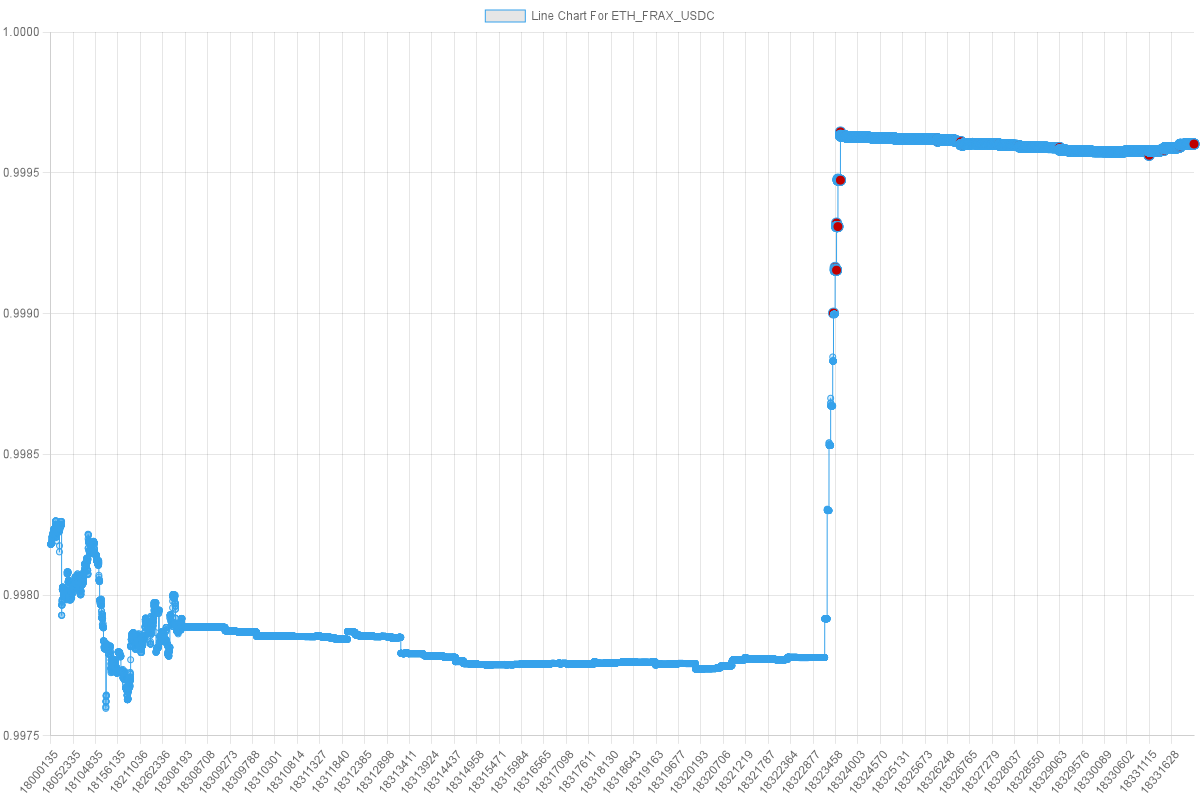
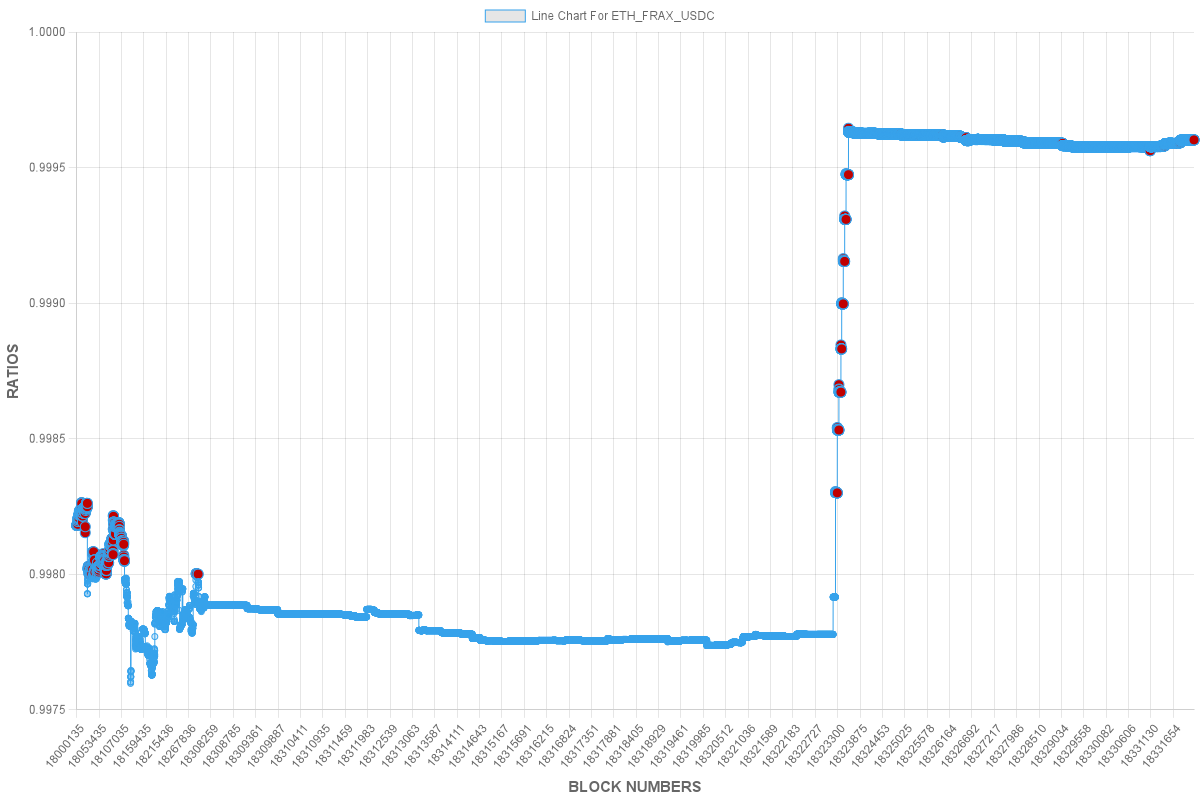
graph update

diff --git a/html/report.html b/html/report.html
@@ -41,32 +41,32 @@
     <div class="row">
     
         <div class="panel panel-primary">
-            <div id = "buypair" class="panel-heading">Summary for ETH_LUSD_USDC</div>
+            <div id = "buypair" class="panel-heading">Summary for ETH_FRAX_USDC</div>
             <div class="panel-body">
                     
                     <div class="col-md-12">&nbsp;</div> 
 
-                    <div class="col-md-6">Number of Block scanned : </div><div class="col-md-2">24821</div>
-                    <div class="col-md-6">Average Ratio across blocks : </div><div class="col-md-2">0.9959156020720595</div>
+                    <div class="col-md-6">Number of Block scanned : </div><div class="col-md-2">26160</div>
+                    <div class="col-md-6">Average Ratio across blocks : </div><div class="col-md-2">0.9983833655627407</div>
                     <div class="col-md-6">Target Ratio : </div><div class="col-md-2">0.998</div>
-                    <div class="col-md-6">Number of times target ratio was achieved : </div><div class="col-md-2">1379</div>
-                    <img src=./ETH_LUSD_USDC.png alt="Italian Trulli" style="width:1000px;height:800px;"></img> 
+                    <div class="col-md-6">Number of times target ratio was achieved : </div><div class="col-md-2">9429</div>
+                    <img src=./ETH_FRAX_USDC.png alt="Italian Trulli" style="width:1000px;height:800px;"></img> 
 
                     <div class="col-md-12">&nbsp;</div>
                    </div>
         </div>
         
         <div class="panel panel-primary">
-            <div class="panel-heading">Test Run Summary for ETH_USDC_LUSD</div>
+            <div class="panel-heading">Test Run Summary for ETH_USDC_FRAX</div>
             <div class="panel-body">
                     
                     <div class="col-md-12">&nbsp;</div> 
 
-                    <div class="col-md-6">Number of Block scanned : </div><div class="col-md-2">24821</div>
-                    <div class="col-md-6">Average Ratio across blocks : </div><div class="col-md-2">1.0049420031841054</div>
-                    <div class="col-md-6">Target Ratio : </div><div class="col-md-2">1.0029</div>
-                    <div class="col-md-6">Number of times target ratio was achieved : </div><div class="col-md-2">9968</div>
-                    <img src=./ETH_USDC_LUSD.png alt="Italian Trulli" style="width:1000px;height:800px;"></img> 
+                    <div class="col-md-6">Number of Block scanned : </div><div class="col-md-2">26319</div>
+                    <div class="col-md-6">Average Ratio across blocks : </div><div class="col-md-2">1.0014214046428849</div>
+                    <div class="col-md-6">Target Ratio : </div><div class="col-md-2">1.00204</div>
+                    <div class="col-md-6">Number of times target ratio was achieved : </div><div class="col-md-2">6548</div>
+                    <img src=./ETH_USDC_FRAX.png alt="Italian Trulli" style="width:1000px;height:800px;"></img> 
 
                     <div class="col-md-12">&nbsp;</div>
             </div>
@@ -79,11 +79,14 @@
                     <div class="col-md-12">&nbsp;</div> 
                     
                     <div class="col-md-6">Buy Ratio : </div><div class="col-md-2">0.998</div>
-                    <div class="col-md-6">Sell Ratio : </div><div class="col-md-2">1.0029</div>
-                    <div class="col-md-6">Combined Sub1 Ratio(Buy-Ratio * Sell-Ratio) : </div><div class="col-md-2">1.0008941999999998</div>
+                    <div class="col-md-6">Sell Ratio : </div><div class="col-md-2">1.00204</div>
+                    <div class="col-md-6">Combined Sub1 Ratio(Buy-Ratio * Sell-Ratio) : </div><div class="col-md-2">1.00003592</div>
+                    <div class="col-md-6">Buy Side Volume : </div><div class="col-md-2">90090</div>
+                    <div class="col-md-6">Sell Side Volume: </div><div class="col-md-2">60000</div>
 
-                    <div class="col-md-6">Number of Orders Cleared : </div><div class="col-md-2">370</div>
-                    <img src=./ETH_LUSD_USDC-ETH_USDC_LUSD.png alt="Italian Trulli" style="width:1000px;height:800px;"></img> 
+
+                    <div class="col-md-6">Number of Orders Cleared : </div><div class="col-md-2">5</div>
+                    <img src=./ETH_FRAX_USDC-ETH_USDC_FRAX.png alt="Italian Trulli" style="width:1000px;height:800px;"></img> 
 
                     <div class="col-md-12">&nbsp;</div>
             </div>

diff --git a/src/reportBuilder/index.ts b/src/reportBuilder/index.ts
@@ -48,6 +48,33 @@ export async function generateGraph(
 			}]
 		},
         options :{
+            scales: {
+                x: {
+                  title : {
+                    text: 'BLOCK NUMBERS',
+                    display: true,
+                    font: {
+                        size: 15,
+                        weight: 'bold'
+                    }
+                  }
+                },
+                y : {
+                    title : {
+                        text: 'RATIOS', 
+                        display: true,
+                        font: {
+                            size: 15,
+                            weight : 'bold'
+                        }
+                      }
+                }
+            },
+            plugins: {
+                tooltip: {
+                    usePointStyle : true
+                }
+            },
            elements: {
                 point:{
                     radius : function(context) {
@@ -211,8 +238,27 @@ export async function generateSub1ReportData(
             scales: {
                 x: {
                   type: 'linear',
-                  position: 'bottom'
+                  position: 'bottom',
+                  title : {
+                    text: 'BLOCK NUMBERS',
+                    display: true,
+                    font: {
+                        size: 15,
+                        weight: 'bold'
+                    }
+                  }
+                },
+                y : {
+                    title : {
+                        text: 'RATIOS', 
+                        display: true,
+                        font: {
+                            size: 15,
+                            weight : 'bold'
+                        }
+                      }
                 }
+                
               },
           
            elements: {
@@ -249,8 +295,20 @@ export async function generateSub1ReportData(
 	const buffer = await chartJSNodeCanvas.renderToBuffer(configuration);
 	await fs.promises.writeFile(`./graphs/${buyFile}-${sellFile}.png`, buffer, 'base64');
     
+    let buyVol = 0 
+    let sellVol = 0 
+
+    for(let i = 0 ; i < sub1.length ; i++){
+        if(i % 2 == 0){
+            buyVol += Number(sub1[i].amountIn)
+        }else{
+            sellVol += Number(sub1[i].amountIn)
+        }
+    }
     return {
-        clears : sub1.length
+        clears : sub1.length,
+        buyVol : buyVol,
+        sellVol : sellVol
     }
 
 }    

diff --git a/html/template.html b/html/template.html
@@ -81,6 +81,9 @@
                     <div class="col-md-6">Buy Ratio : </div><div class="col-md-2">{{targetBuyRatio}}</div>
                     <div class="col-md-6">Sell Ratio : </div><div class="col-md-2">{{targetSellRatio}}</div>
                     <div class="col-md-6">Combined Sub1 Ratio(Buy-Ratio * Sell-Ratio) : </div><div class="col-md-2">{{sub1Mul}}</div>
+                    <div class="col-md-6">Buy Side Volume : </div><div class="col-md-2">{{buyVol}}</div>
+                    <div class="col-md-6">Sell Side Volume: </div><div class="col-md-2">{{sellVol}}</div>
+
 
                     <div class="col-md-6">Number of Orders Cleared : </div><div class="col-md-2">{{sub1Clears}}</div>
                     <img src={{{buySellUrl}}} alt="Italian Trulli" style="width:1000px;height:800px;"></img> 

diff --git a/report.ts b/report.ts
@@ -56,7 +56,8 @@ async function main(argv){
 
       sub1Clears : sub1Report.clears,
       buySellUrl : `./${buyPairData.fileName}-${sellPairData.fileName}.png`,
-
+      buyVol : sub1Report.buyVol,
+      sellVol : sub1Report.sellVol,
       sub1Mul : buyRatio * sellRatio
 
 

diff --git a/README.md b/README.md
@@ -86,28 +86,3 @@ ts-node report.ts -b "./csv/ETH_FRAX_DAI.csv" -s "./csv/ETH_DAI_FRAX.csv" -r 0.9
 ```
 REPORT GENERATED :  http://localhost:3000/ 
 ``` 
-
-ts-node scan.ts -i 0x853d955acef822db058eb8505911ed77f175b99e -d 18 -o 0xA0b86991c6218b36c1d19D4a2e9Eb0cE3606eB48 -D 6 -a 30030000000000000000000  -p "./csv/FRAX_USDC/18200136-x.csv" -l "curveswap" -r https://eth-mainnet.g.alchemy.com/v2/zv_qezhqKEtY-ZRKRUbDHD2VqlPYASBK --memoize -f 18200136 -t 18308136 --pool-filter 0xdcef968d416a41cdac0ed8702fac8128a64241a2   
-
-
-ts-node scan.ts -i 0xA0b86991c6218b36c1d19D4a2e9Eb0cE3606eB48 -d 6 -o 0x853d955acef822db058eb8505911ed77f175b99e -D 18 -a 30000000000  -p "./csv/testx.csv" -l "curveswap" -r https://eth-mainnet.g.alchemy.com/v2/zv_qezhqKEtY-ZRKRUbDHD2VqlPYASBK --memoize -f 18317320 -t 18331180 
-
-ts-node report.ts -b "./csv/FRAX_USDC/ETH_FRAX_USDC.csv" -s "./csv/FRAX_USDC/ETH_USDC_FRAX.csv" -r 0.999 -R 1.00205  
-
-
-ts-node scan.ts -i 0xA0b86991c6218b36c1d19D4a2e9Eb0cE3606eB48 -d 6 -o 0x853d955acef822db058eb8505911ed77f175b99e -D 18 -a 30000000000  -p "./csv/FRAX_USDC/18332138-x-rev.csv" -l "curveswap" -r https://eth-mainnet.g.alchemy.com/v2/zv_qezhqKEtY-ZRKRUbDHD2VqlPYASBK --memoize -f 18332138 -t 18361302 --pool-filter 0xdcef968d416a41cdac0ed8702fac8128a64241a2    
-
-ts-node scan.ts -i 0xA0b86991c6218b36c1d19D4a2e9Eb0cE3606eB48 -d 6 -o 0x853d955acef822db058eb8505911ed77f175b99e -D 18 -a 30000000000  -p "./csv/FRAX_USDC/18000135-x-rev.csv" -l "curveswap" -r https://eth-mainnet.g.alchemy.com/v2/zv_qezhqKEtY-ZRKRUbDHD2VqlPYASBK --memoize -f 18000135 -t 18200136 --pool-filter 0xdcef968d416a41cdac0ed8702fac8128a64241a2   
-
-``` 
-
-//Curve 
-
-ts-node scan.ts -i 0x5f98805A4E8be255a32880FDeC7F6728C6568bA0 -d 18 -o 0xA0b86991c6218b36c1d19D4a2e9Eb0cE3606eB48 -D 6 -a 30030000000000000000000  -p "./lusd-curve.csv" -l "curveswap" -r https://eth-mainnet.g.alchemy.com/v2/zv_qezhqKEtY-ZRKRUbDHD2VqlPYASBK --memoize -f 18340675 -t 18356675 --pool-filter 0xEd279fDD11cA84bEef15AF5D39BB4d4bEE23F0cA
-
-
-// Router  
-
-ts-node scan.ts -i 0x5f98805A4E8be255a32880FDeC7F6728C6568bA0 -d 18 -o 0xA0b86991c6218b36c1d19D4a2e9Eb0cE3606eB48 -D 6 -a 30030000000000000000000  -p "./lusd-router.csv" -l "apeswap,elk,pancakeswap,sushiswapv2,sushiswapv3,uniswapv2,uniswapv3,trident" -r https://eth-mainnet.g.alchemy.com/v2/zv_qezhqKEtY-ZRKRUbDHD2VqlPYASBK --memoize --skip-blocks 50 -f 18330675 -t 18340675 
-
-ts-node scan.ts -i 0xA0b86991c6218b36c1d19D4a2e9Eb0cE3606eB48 -d 6 -o 0x5f98805A4E8be255a32880FDeC7F6728C6568bA0 -D 18 -a 30030000000  -p "./lusd-router-rev.csv" -l "apeswap,elk,pancakeswap,sushiswapv2,sushiswapv3,uniswapv2,uniswapv3,trident" -r https://eth-mainnet.g.alchemy.com/v2/zv_qezhqKEtY-ZRKRUbDHD2VqlPYASBK --memoize -f 18350493 -t 18356675
